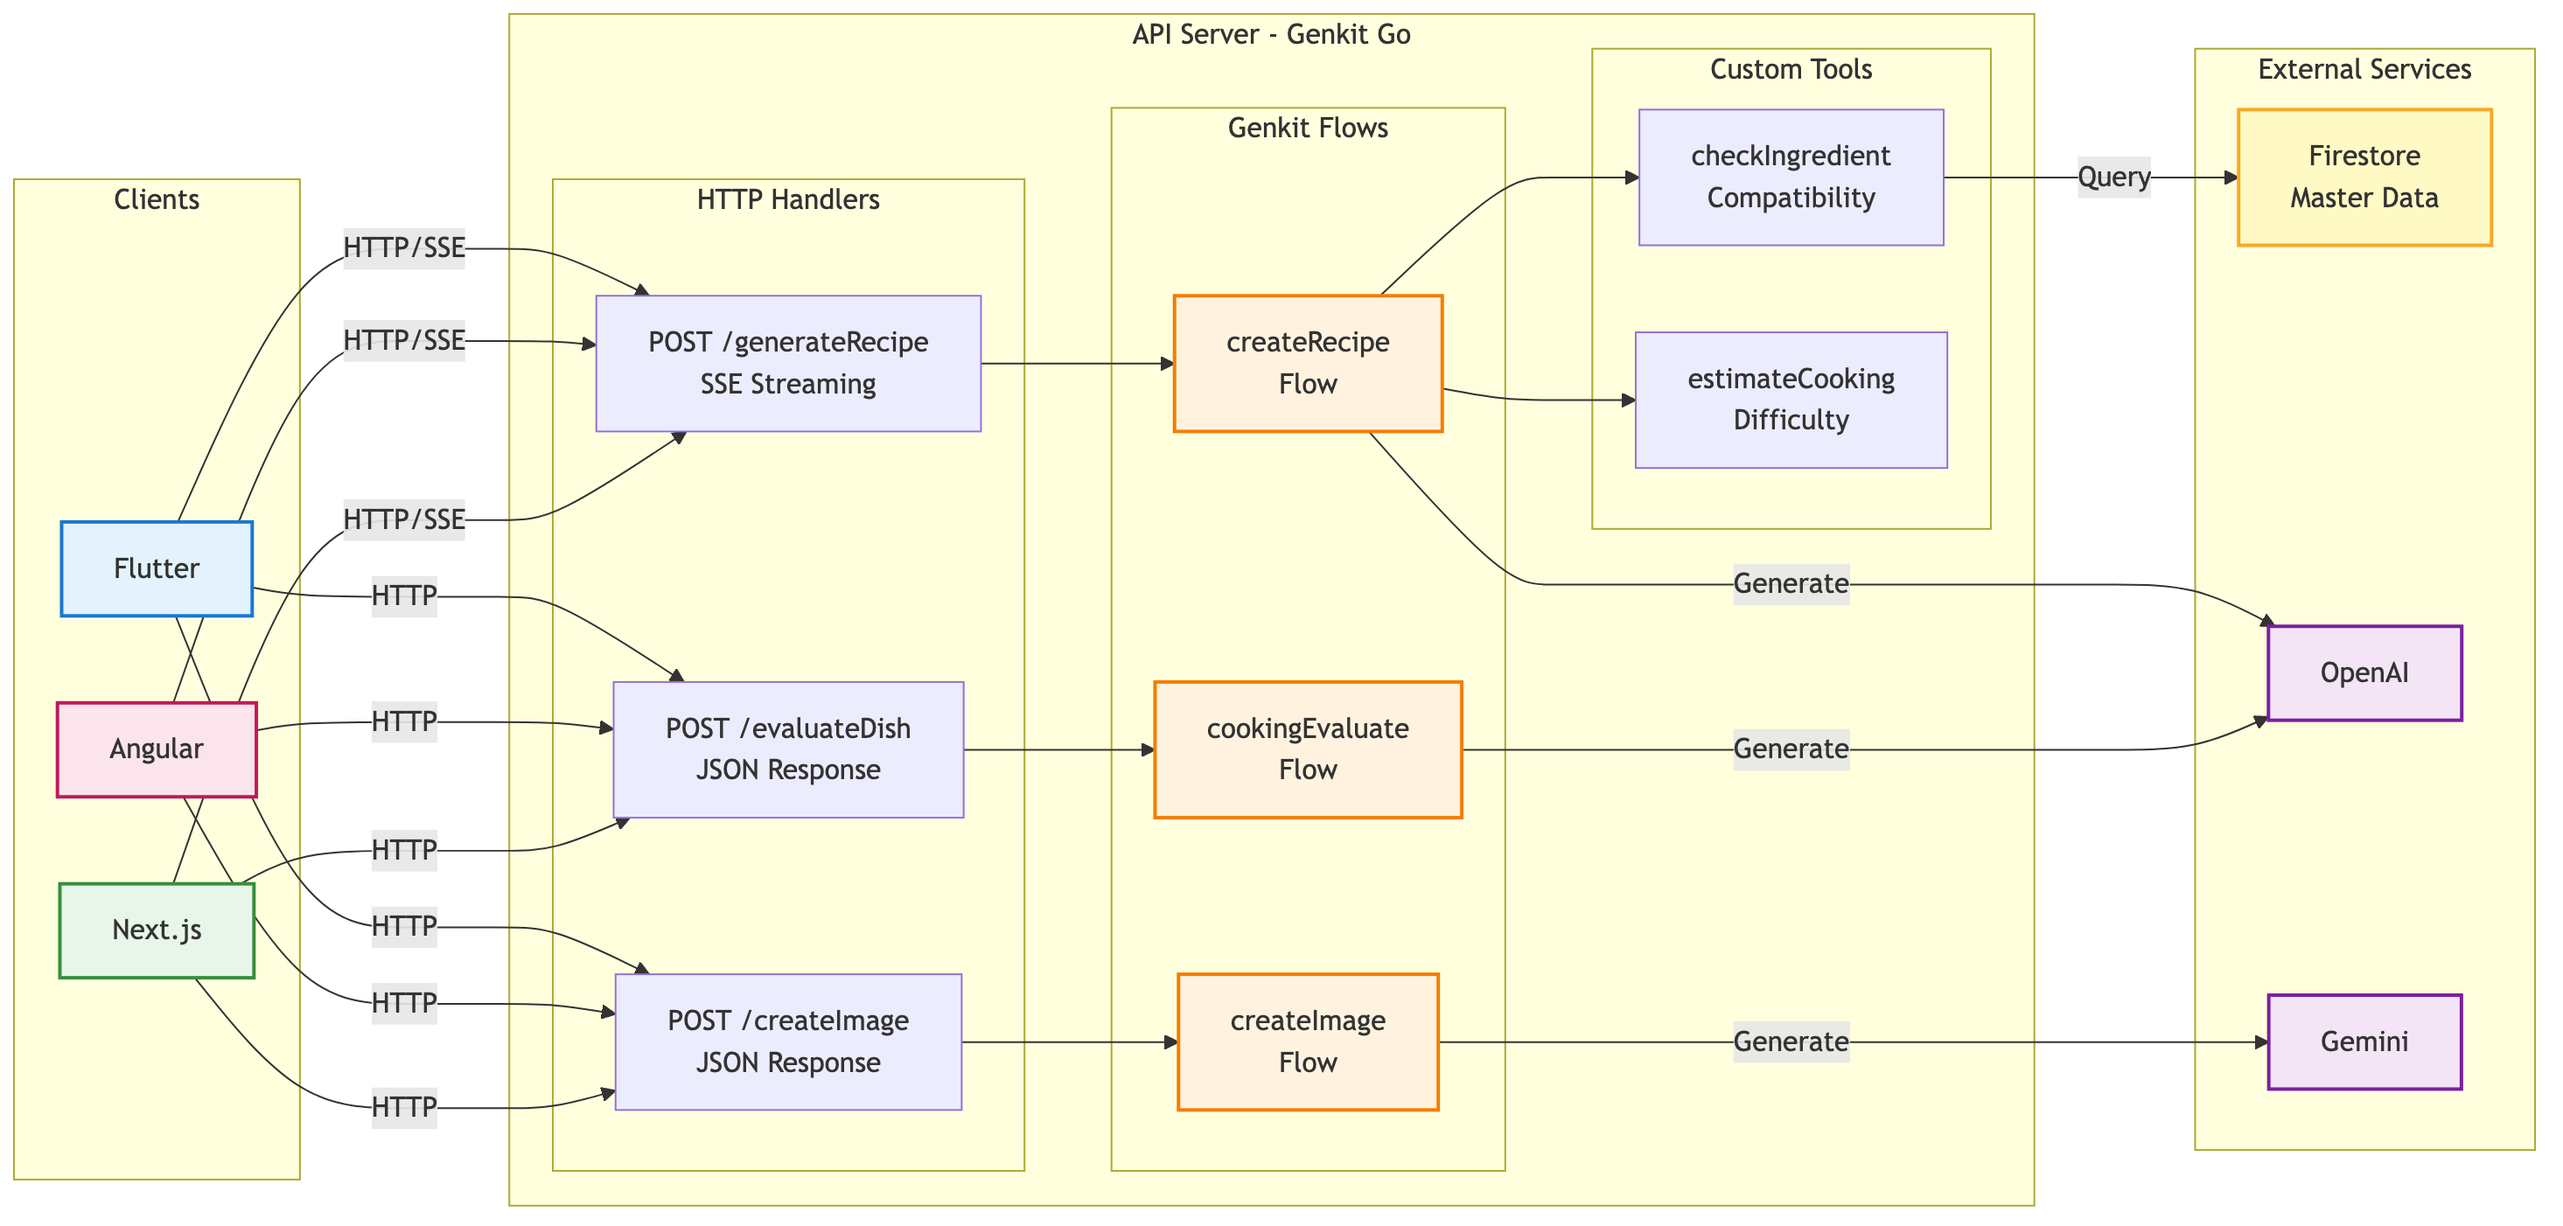
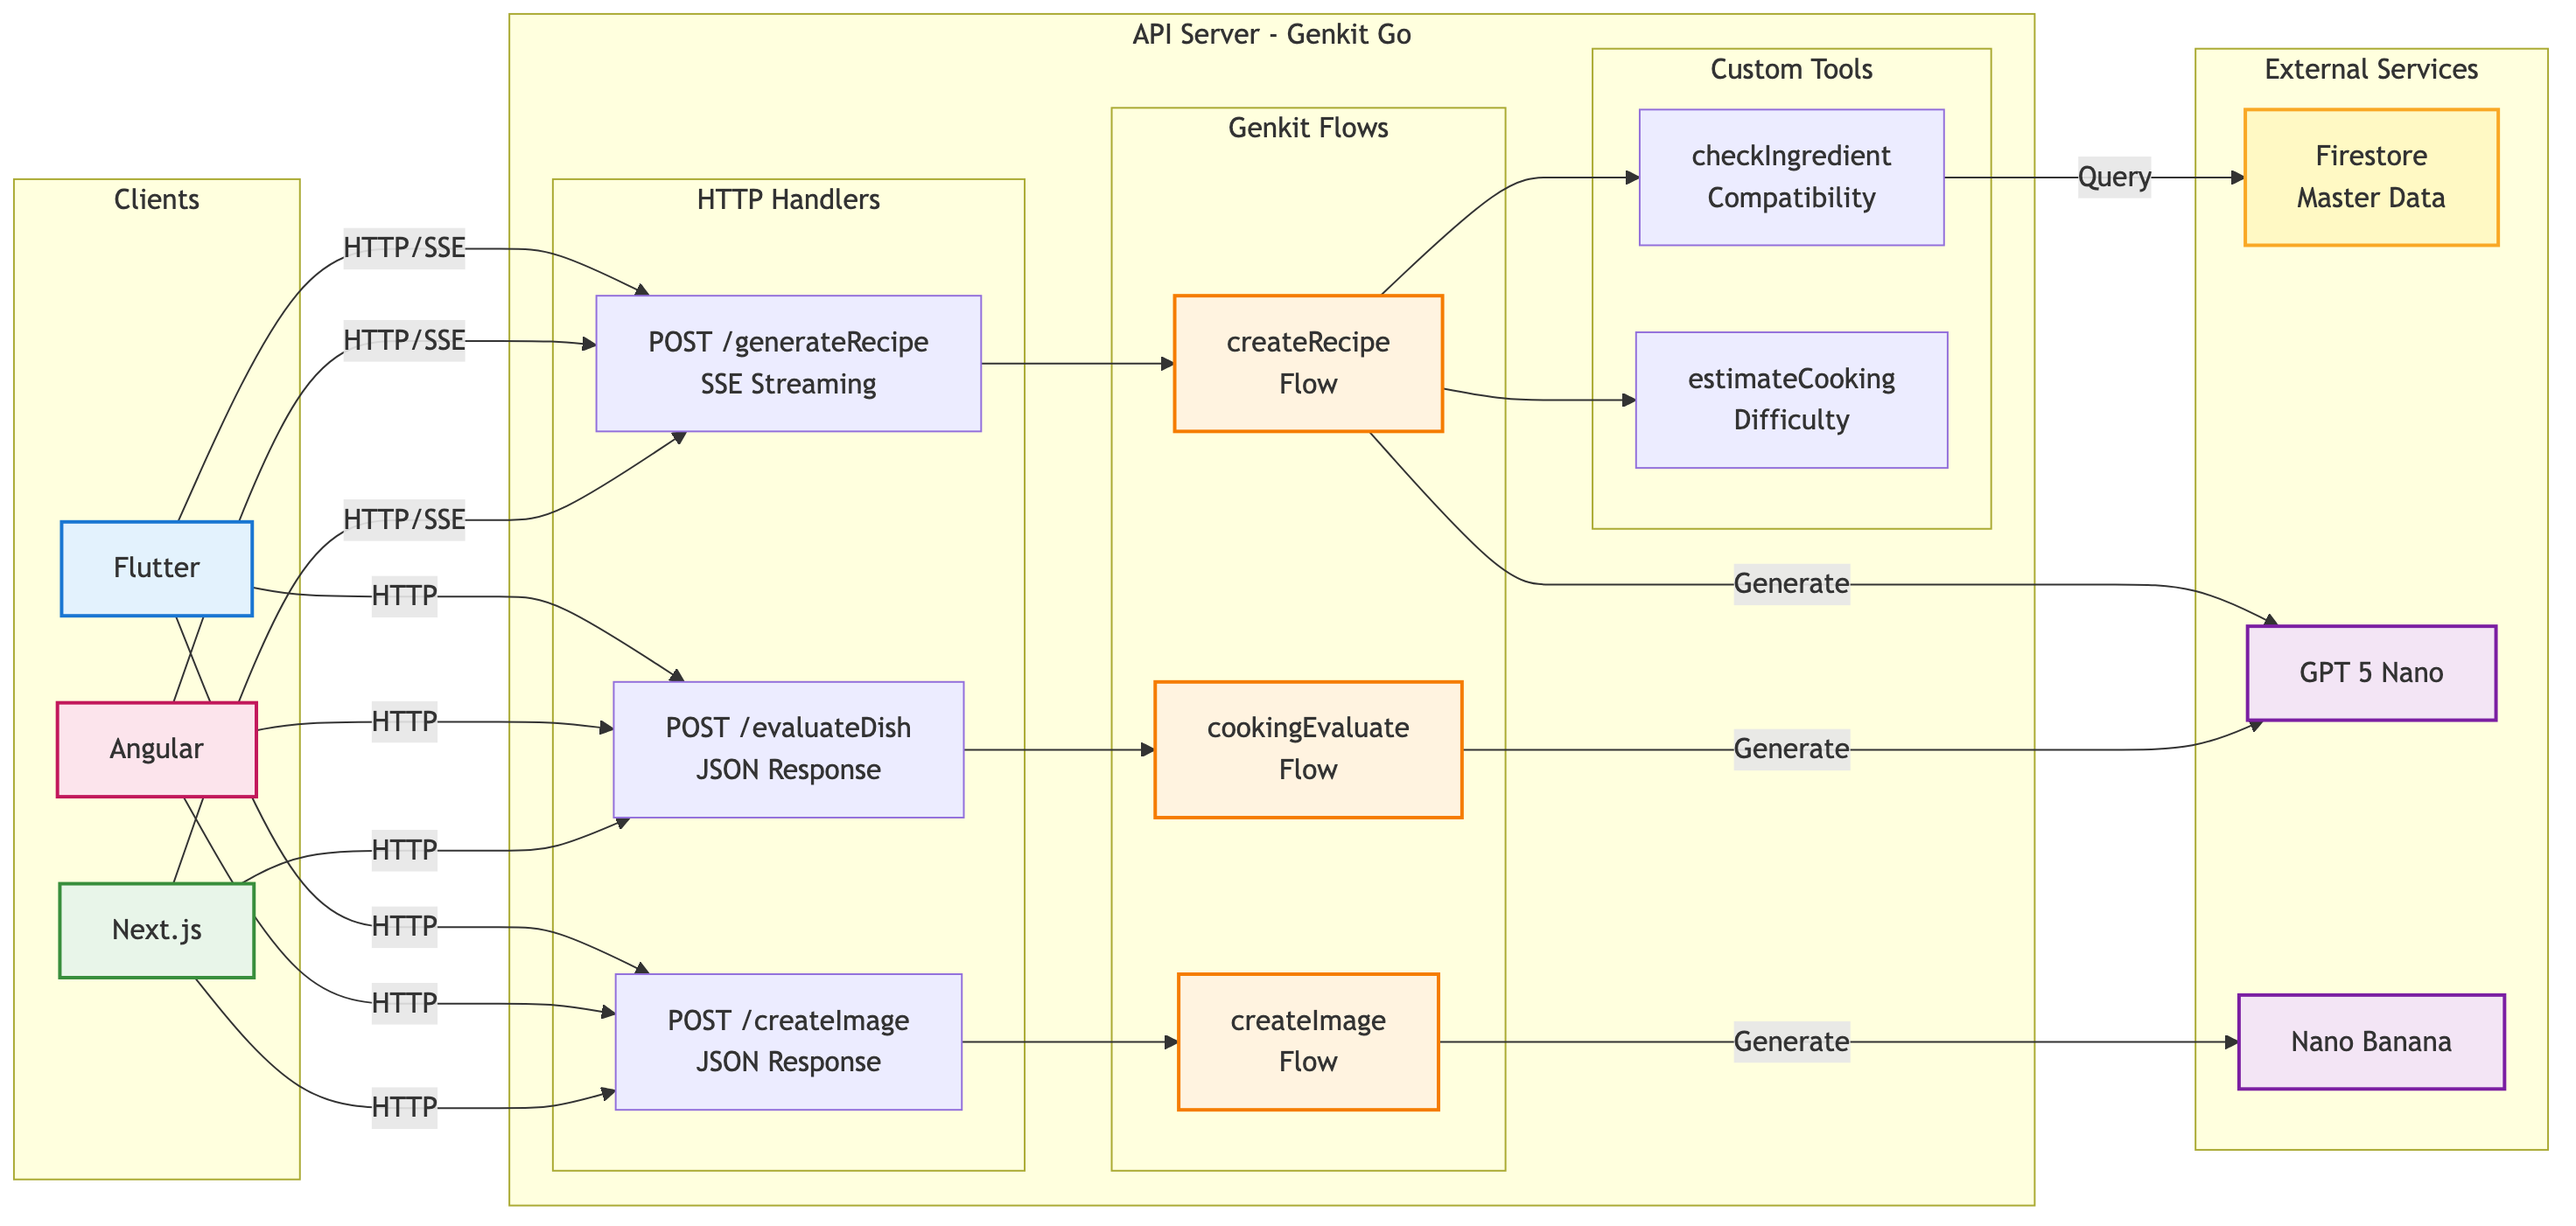
chore: diagrams

diff --git a/src/diagrams/chapter-15/sequence.md b/src/diagrams/chapter-15/sequence.md
@@ -19,7 +19,7 @@ sequenceDiagram
         Tool->>DB: Query master data
         DB-->>Tool: Return validation
         Tool-->>Flow: Compatibility result
-        Flow->>AI: Generate recipe (OpenAI)
+        Flow->>AI: Generate recipe (GPT 5 Nano)
         
         loop Streaming chunks
             AI-->>Flow: Recipe chunk
@@ -34,7 +34,7 @@ sequenceDiagram
         Note over Client,AI: Image Generation
         Client->>API: POST /createImage<br/>{dishName, description}
         API->>Flow: Execute createImage flow
-        Flow->>AI: Generate image (Gemini)
+        Flow->>AI: Generate image (Nano Banana)
         AI-->>Flow: Image URL
         Flow-->>API: Process result
         API-->>Client: {success: true, imageUrl}
@@ -44,7 +44,7 @@ sequenceDiagram
         Note over Client,AI: Dish Evaluation
         Client->>API: POST /evaluateDish<br/>{dishName, description, imageUrl}
         API->>Flow: Execute cookingEvaluate flow
-        Flow->>AI: Evaluate dish (OpenAI)
+        Flow->>AI: Evaluate dish (GPT 5 Nano)
         AI-->>Flow: Score & feedback
         Flow-->>API: Process evaluation
         API-->>Client: {score, feedback, achievement}

diff --git a/src/diagrams/chapter-15/architecture.md b/src/diagrams/chapter-15/architecture.md
@@ -34,8 +34,8 @@ graph LR
     
     subgraph "External Services"
         E1[Firestore<br/>Master Data]
-        E2[OpenAI]
-        E3[Gemini]
+        E2[GPT 5 Nano]
+        E3[Nano Banana]
     end
     
     A1 -->|HTTP/SSE| B1
